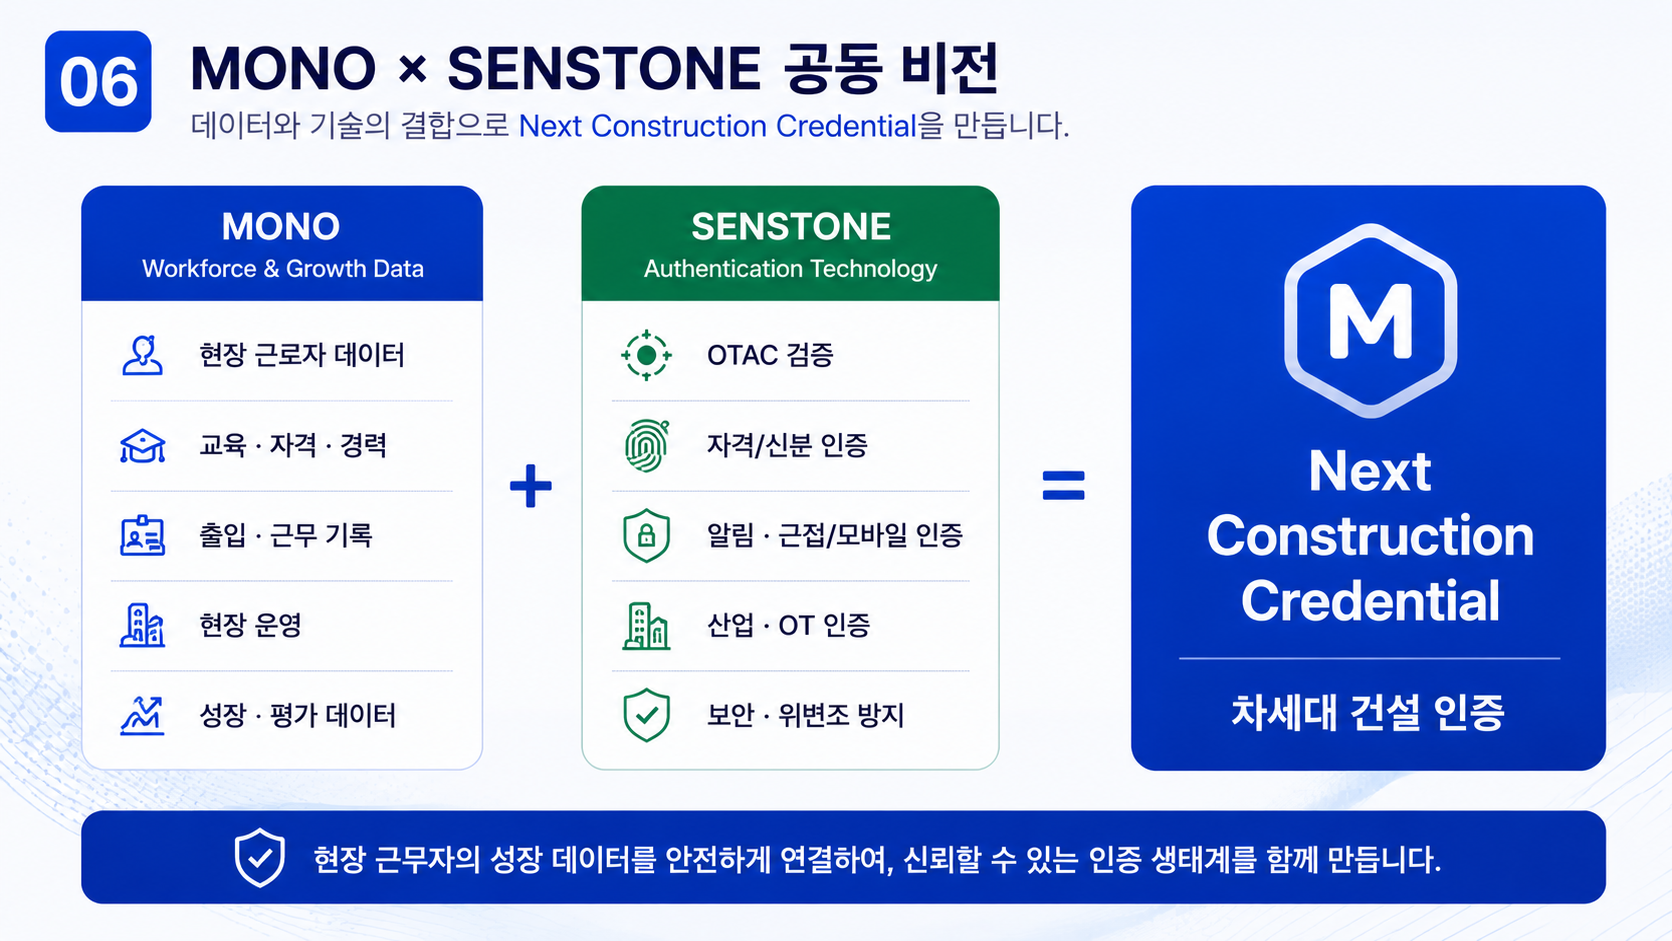
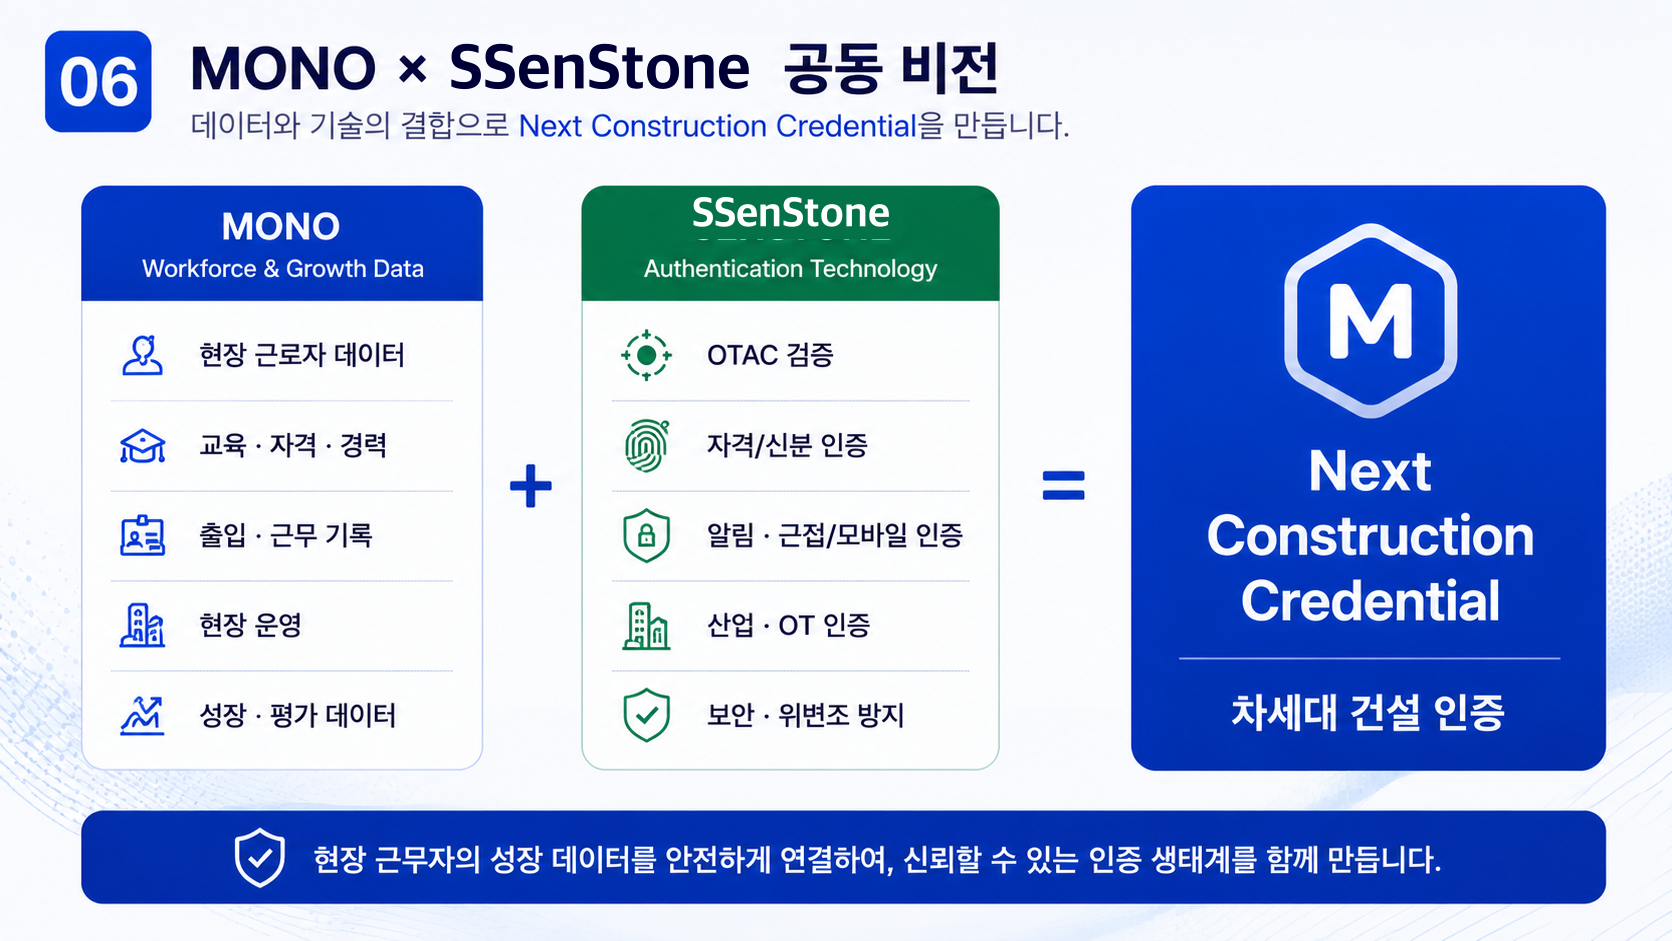
fix: 01·06번 이미지 내부 SENSTONE 텍스트를 SSenStone으로 패치
두 이미지에 그림으로 박혀 있던 SENSTONE 표기(01번 부제·원형 라벨,
06번 타이틀·그린 패널 헤더 총 4곳)를 배경색과 굵기를 맞춰 SSenStone
으로 다시 그려 넣었다. 원본 디자인 소스가 없어 이미지 편집으로
처리했으며, 캐시 버스팅 해시(imageVersions.ts)도 함께 갱신했다.

Changed region(s): [[0.2488, 0.0308, 0.4665, 0.0925], [0.4043, 0.2157, 0.5287, 0.2774]]

diff --git a/web/app/field-pass-v2/imageVersions.ts b/web/app/field-pass-v2/imageVersions.ts
@@ -3,12 +3,12 @@
 //   cd web/public/images/field-pass && for f in *.png; do echo "$f $(md5 -q "$f" | cut -c1-8)"; done
 // 값이 바뀌면 이미지 URL(?v=...)이 함께 바뀌어 브라우저·CDN 캐시를 무조건 새로 받는다.
 export const IMAGE_VERSION: Record<string, string> = {
-  '01_Hero_Bridge_1920x1080.png': '89ab7faf',
+  '01_Hero_Bridge_1920x1080.png': 'c5a5c02b',
   '02_AllPass_Connect_1920x1080.png': '868f6bf5',
   '03_Auth_Pain_Solution_1920x1080.png': '817b0e74',
   '04_Service_Flow_1920x1080.png': '96acc58f',
   '05_Hybrid_Authentication_1920x1080.png': '52d8282e',
-  '06_MONO_x_SSenStone_1920x1080.png': '9102cae7',
+  '06_MONO_x_SSenStone_1920x1080.png': 'eb5b29e9',
   '07_Permission_Expansion_1920x1080.png': 'd427f489',
   '08_Data_Integration_1920x1080.png': '9de5f976',
   '09_Public_Launch_1920x1080.png': 'eab99bca',